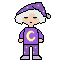
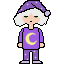
Minor fixes and new player model(player_down_1)

Changed region(s): [[0.1875, 0.0, 0.8125, 1.0], [0.4688, 0.3125, 0.5, 0.375], [0.4375, 0.2188, 0.4688, 0.25]]

diff --git a/Sleepytale/src/main/java/entity/Player.java b/Sleepytale/src/main/java/entity/Player.java
@@ -38,7 +38,7 @@ public class Player extends Entity{
 
     public void getPlayerImage() {
         try {
-            up1 = ImageIO.read(Objects.requireNonNull(getClass().getResourceAsStream("/player/player_down_1.png")));
+            up1 = ImageIO.read(Objects.requireNonNull(getClass().getResourceAsStream("/player/player_up_1.png")));
             up2 = ImageIO.read(Objects.requireNonNull(getClass().getResourceAsStream("/player/player_up_2.png")));
             down1 = ImageIO.read(Objects.requireNonNull(getClass().getResourceAsStream("/player/player_down_1.png")));
             down2 = ImageIO.read(Objects.requireNonNull(getClass().getResourceAsStream("/player/player_down_2.png")));
